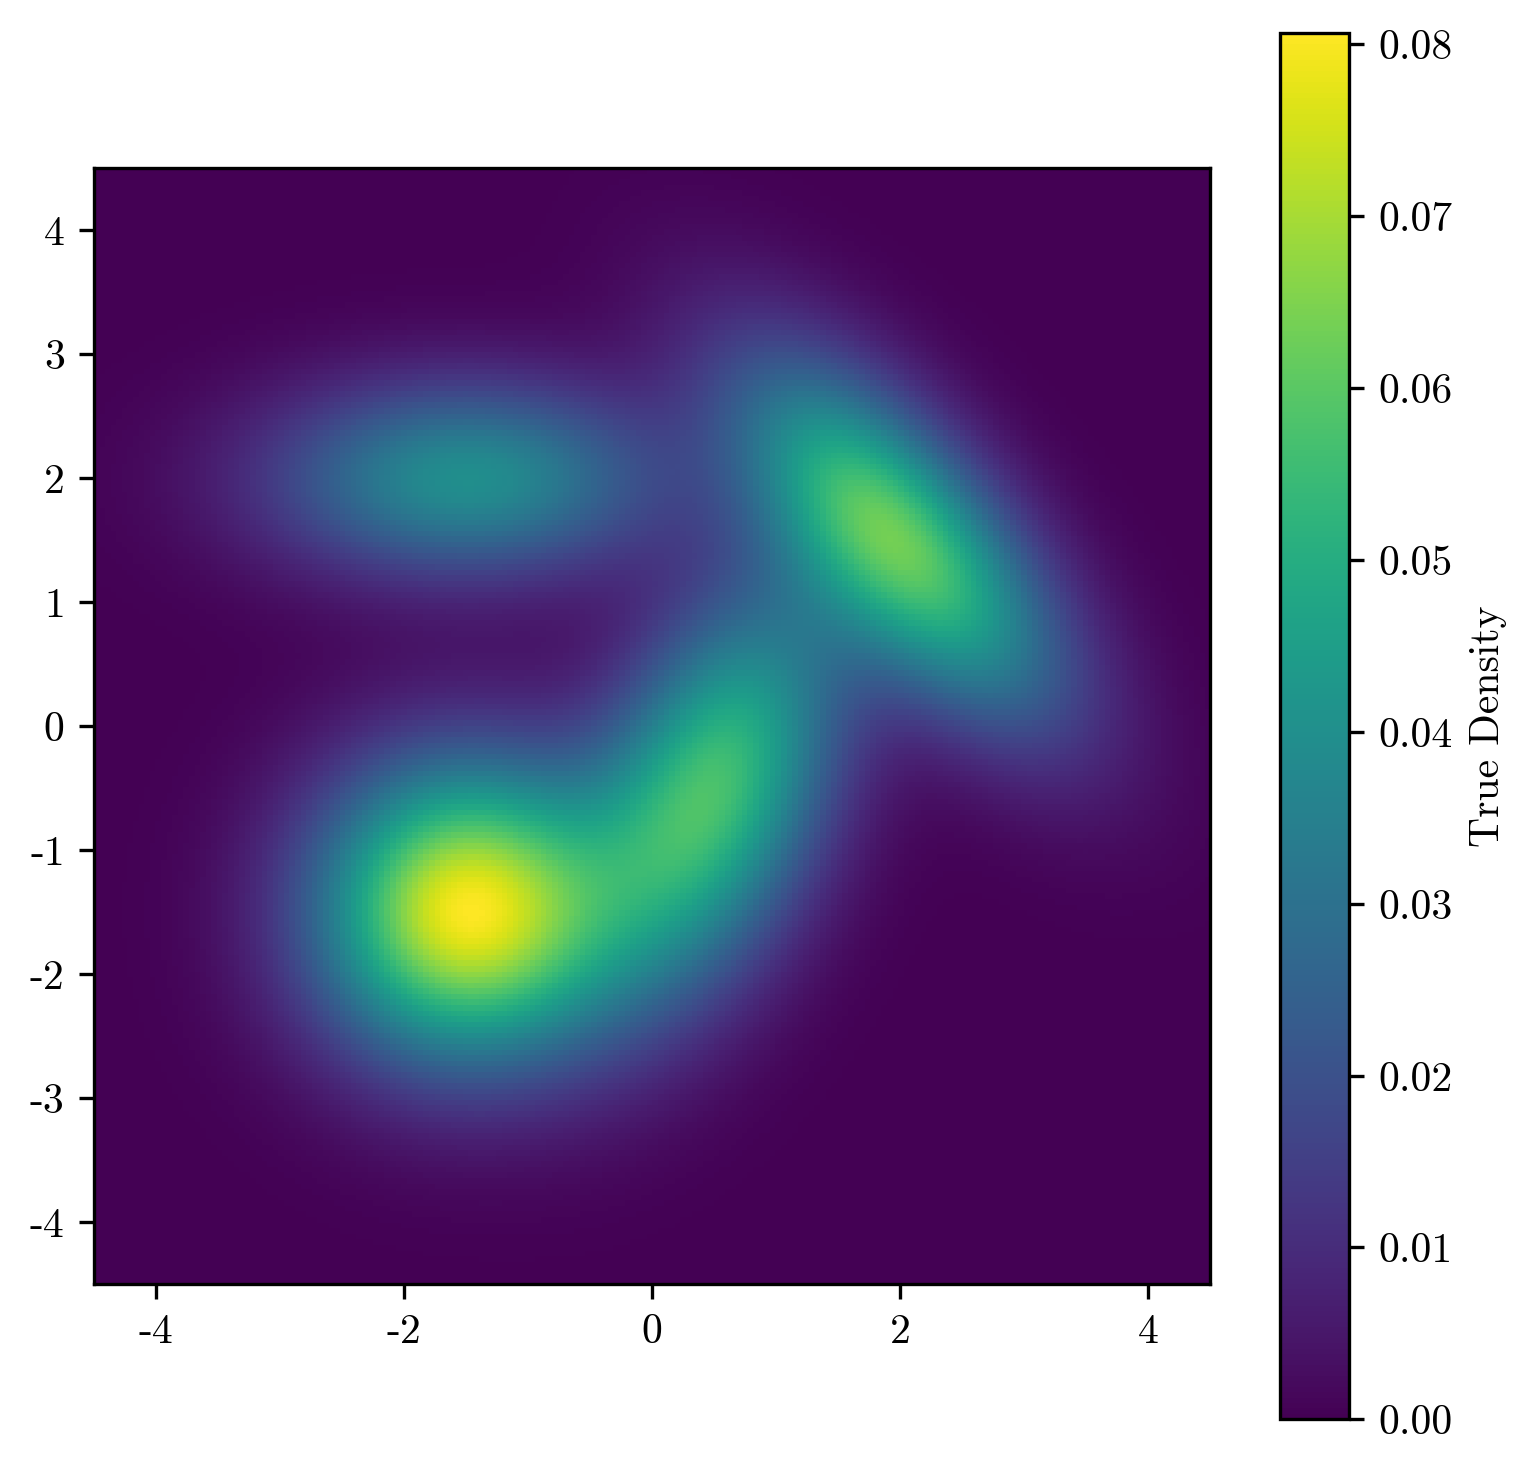
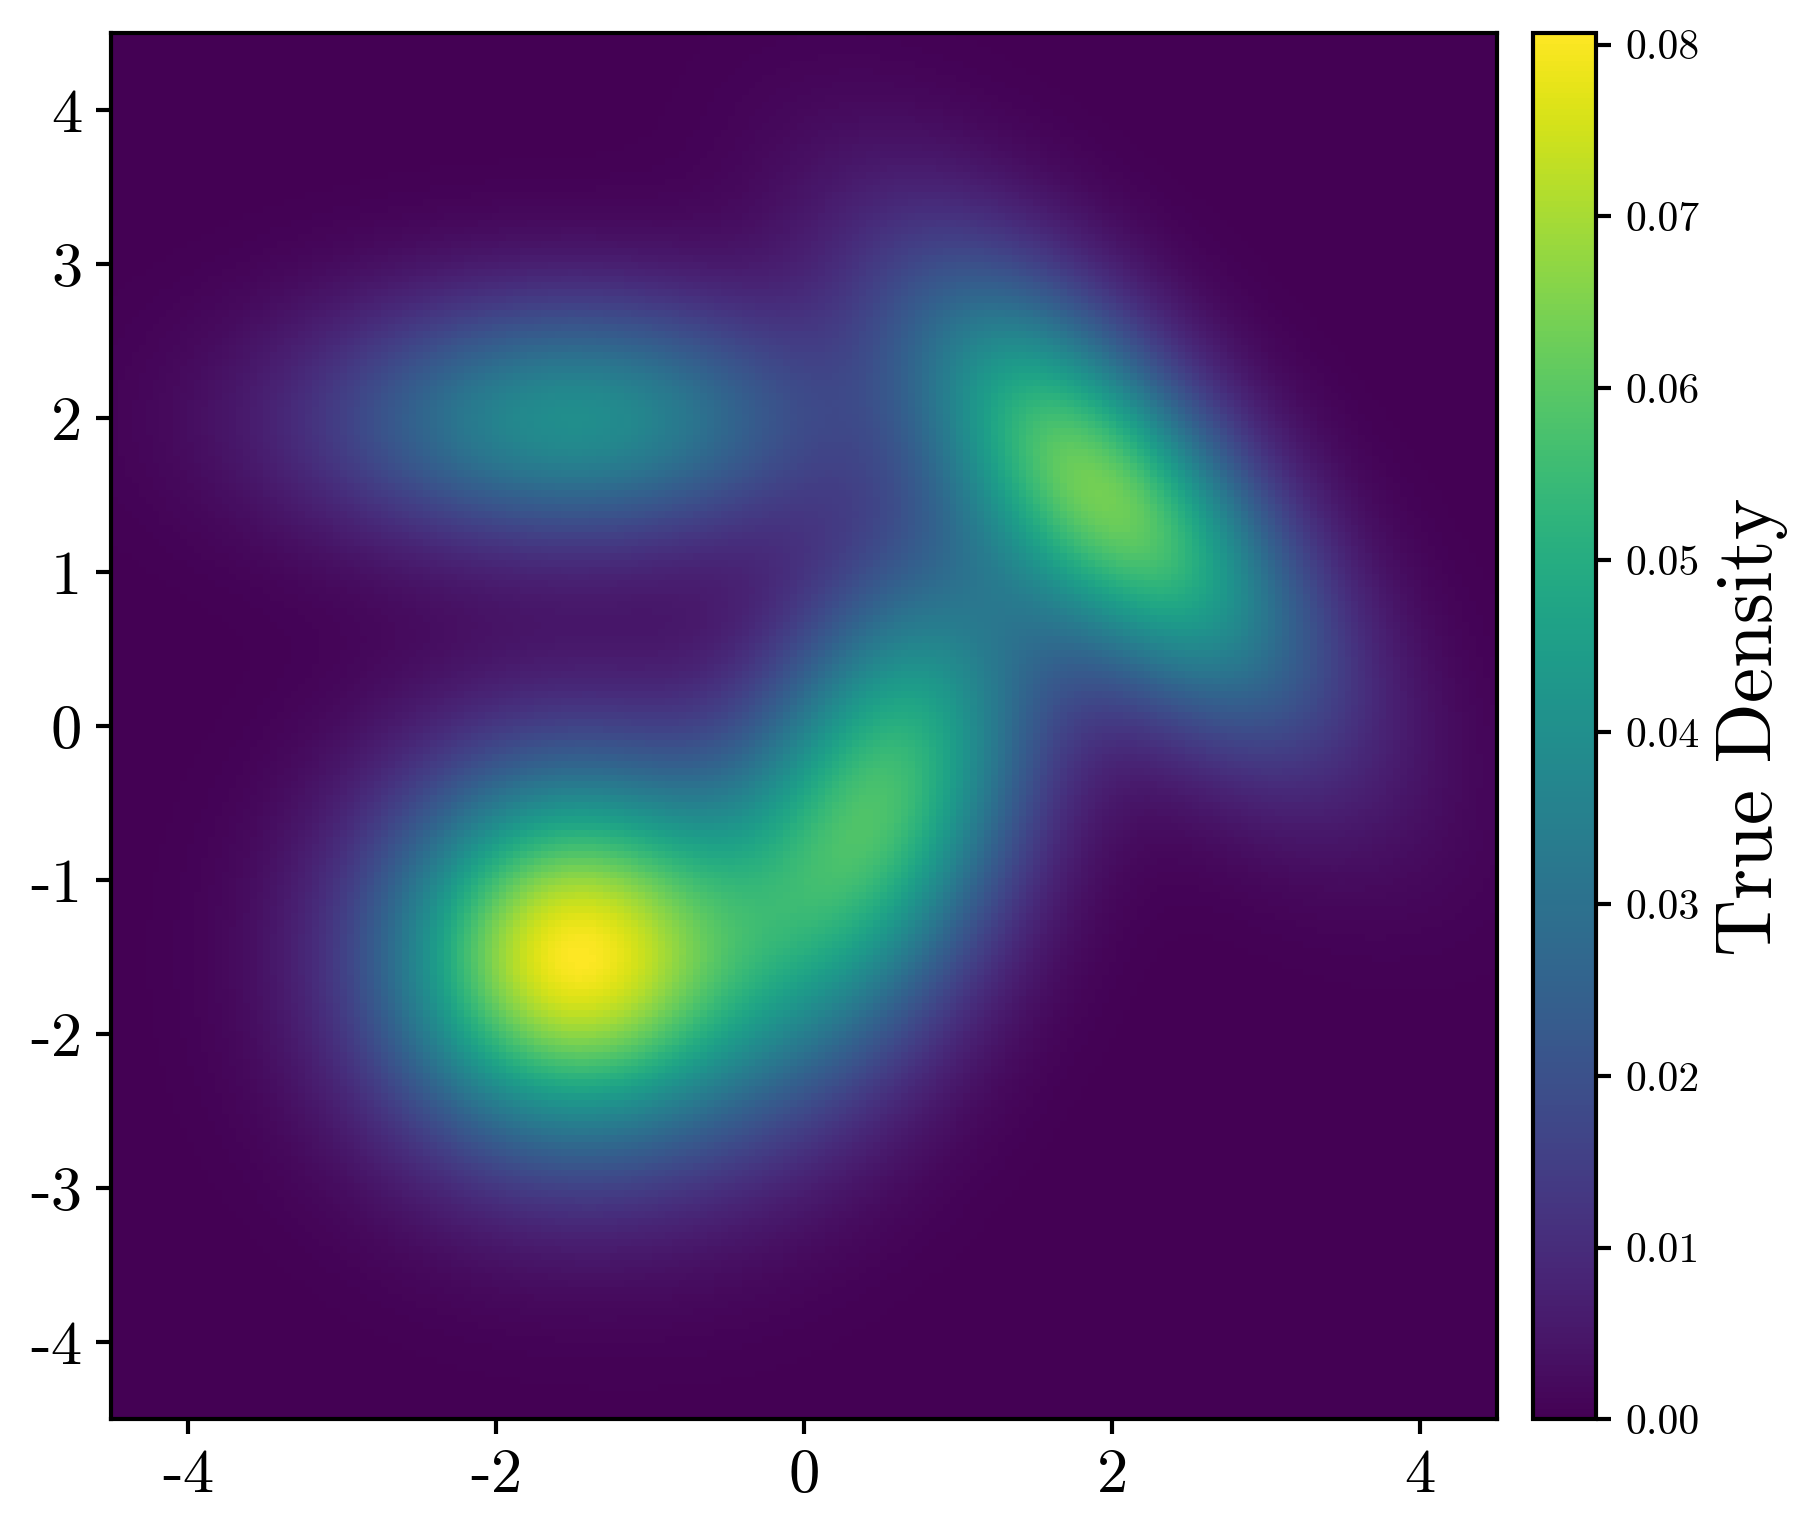
update true gmm likelihood

diff --git a/constrained_fm/src/visualization/density.py b/constrained_fm/src/visualization/density.py
@@ -31,12 +31,15 @@ def visualize_true_gmm_likelihood(means=GMM_MEANS, covs=GMM_COVS, weights=GMM_WE
     norm = cm.colors.Normalize(vmax=true_vmax, vmin=0.0)
     ax.imshow(density_grid.cpu().numpy(), extent=(-4.5, 4.5, -4.5, 4.5), origin='lower', cmap='viridis', norm=norm)
     ax.grid(False)
-    cbar = fig.colorbar(cm.ScalarMappable(norm=norm, cmap='viridis'), ax=ax, orientation='vertical')
+    ax.set_aspect('equal')
+    fig.canvas.draw()
+    bounds = ax.get_position()
+    cax = fig.add_axes([bounds.x1 + 0.02, bounds.y0, 0.035, bounds.height])
+    cbar = fig.colorbar(cm.ScalarMappable(norm=norm, cmap='viridis'), cax=cax, orientation='vertical')
     cbar.set_label('True Density', family='serif')
     cbar.ax.tick_params(labelsize=10)
     for label in cbar.ax.get_yticklabels():
         label.set_family('serif')
-    ax.set_aspect('equal')
 
     if save_path is not None:
         save_path = Path(save_path)
